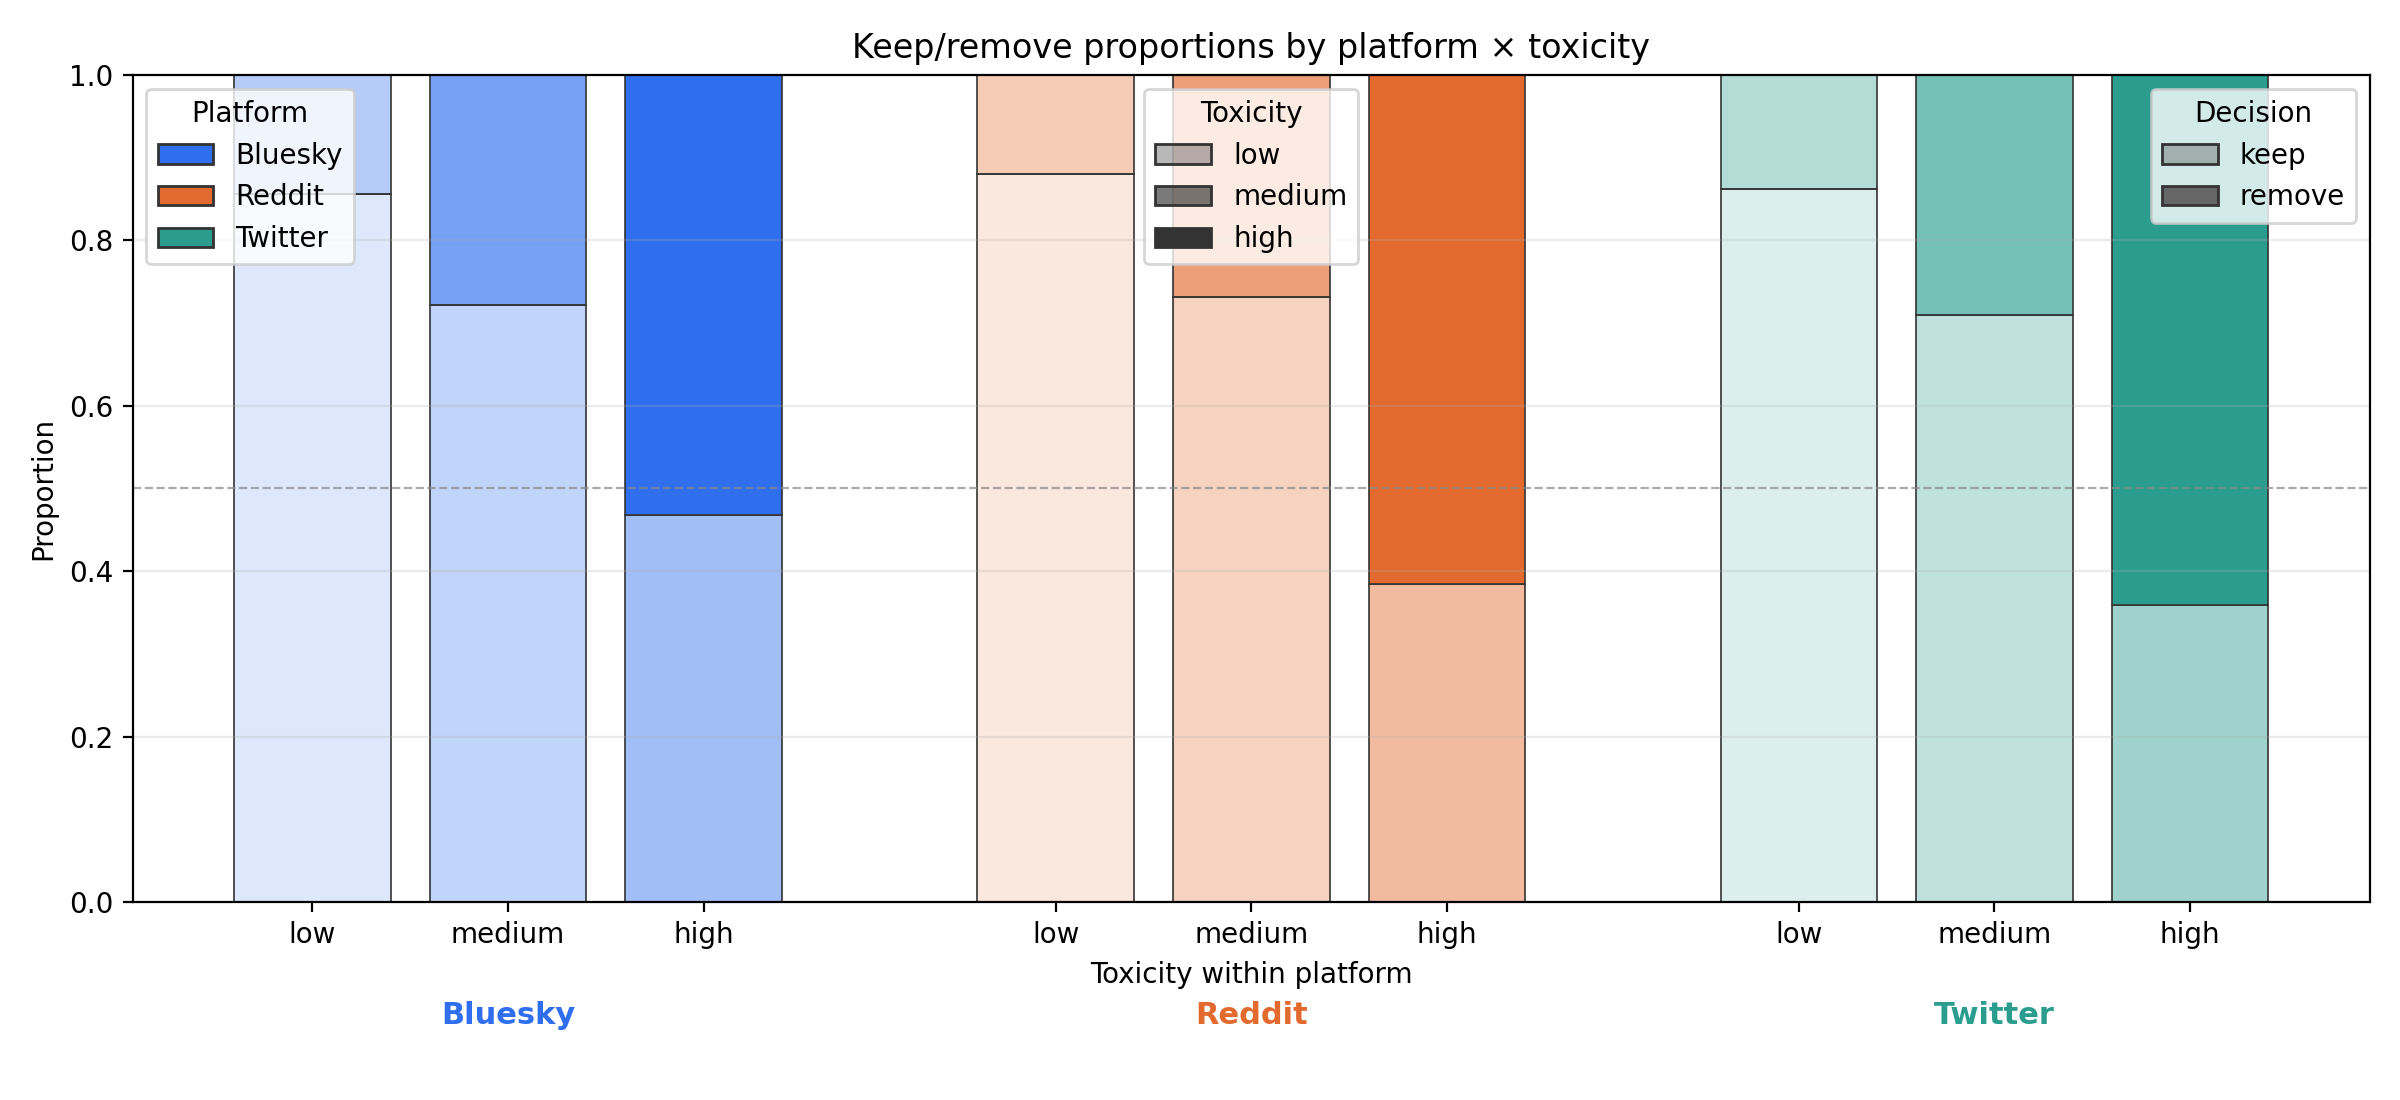
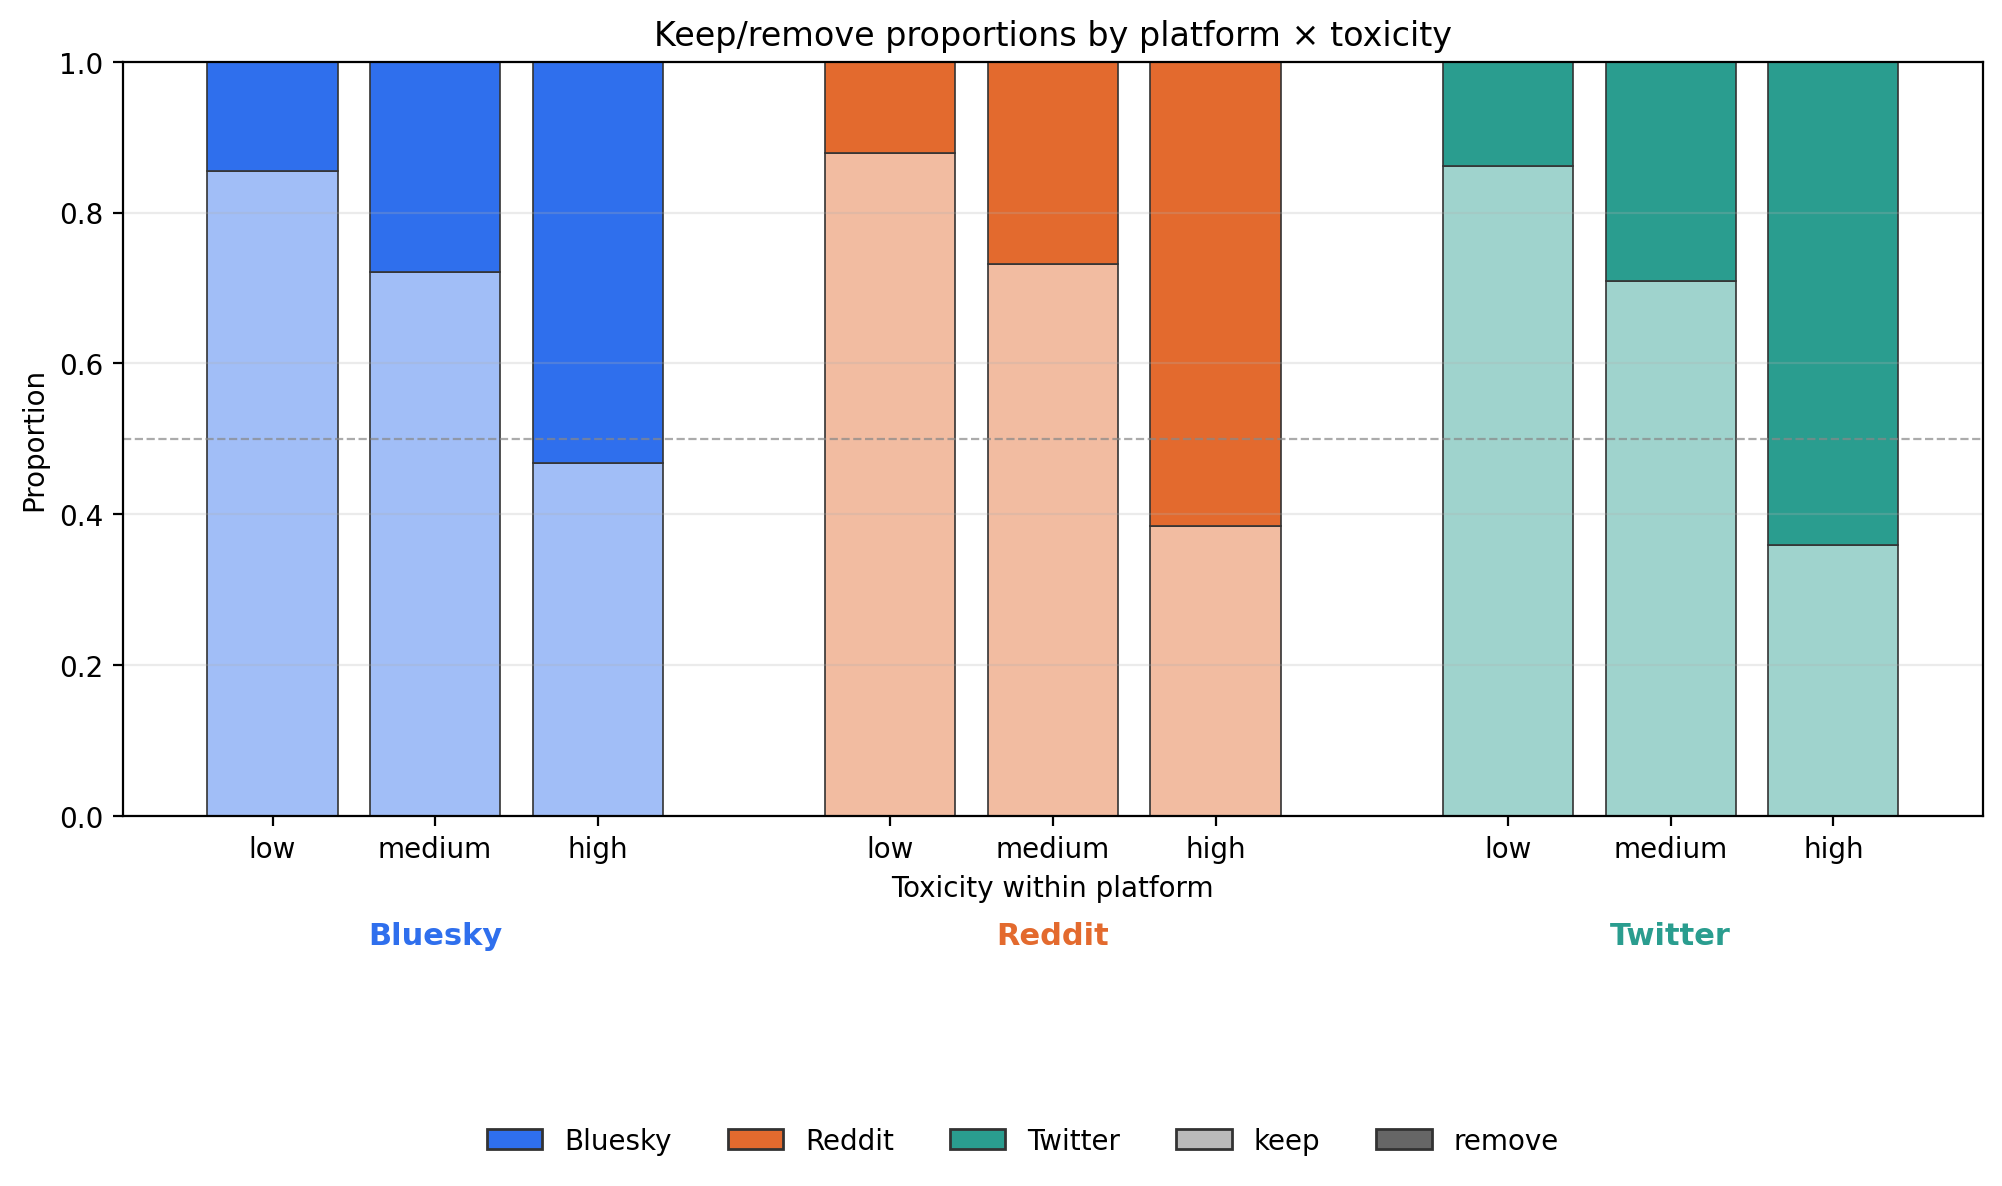
Move chart legends below axis; use solid platform colors
Drop toxicity opacity gradients; place a horizontal platform/decision legend under the x-axis so it no longer overlaps the bars.

diff --git a/experiments/compare_keep_remove_rates_across_integrations_2026_08_04/compare_keep_remove_rates.py b/experiments/compare_keep_remove_rates_across_integrations_2026_08_04/compare_keep_remove_rates.py
@@ -48,12 +48,7 @@ PLATFORM_COLORS: dict[str, str] = {
     "Reddit": "#E36A2E",
     "Twitter": "#2A9D8F",
 }
-TOXICITY_OPACITY: dict[str, float] = {
-    "low toxicity": 0.35,
-    "medium toxicity": 0.65,
-    "high toxicity": 1.0,
-}
-KEEP_OPACITY_SCALE = 0.45
+KEEP_LIGHTEN = 0.55
 PLATFORM_GROUP_GAP = 0.8
 FIGURE_DPI = 200
 
@@ -174,6 +169,13 @@ def parse_platform_toxicity_column(column: str) -> tuple[str, str]:
     raise ValueError(f"Unrecognized platform×toxicity column: {column!r}")
 
 
+def lighten_rgb(
+    rgb: tuple[float, float, float], amount: float
+) -> tuple[float, float, float]:
+    """Blend ``rgb`` toward white by ``amount`` in [0, 1]."""
+    return tuple(channel + (1.0 - channel) * amount for channel in rgb)
+
+
 def bar_x_positions(n_columns: int, group_size: int) -> list[float]:
     """X positions with a gap after each platform group."""
     positions: list[float] = []
@@ -188,7 +190,7 @@ def bar_x_positions(n_columns: int, group_size: int) -> list[float]:
 def plot_platform_toxicity_proportions(
     proportions: pd.DataFrame, output_path: Path
 ) -> None:
-    """Stacked keep/remove bars; platform hue, toxicity opacity; crosstab order."""
+    """Stacked keep/remove bars; solid platform colors; crosstab column order."""
     columns = list(proportions.columns)
     if columns != list(PLATFORM_TOXICITY_COLUMNS):
         raise ValueError("Proportion columns must match PLATFORM_TOXICITY_COLUMNS order")
@@ -197,16 +199,15 @@ def plot_platform_toxicity_proportions(
     keep_values = [float(proportions.loc["keep", col]) for col in columns]
     remove_values = [float(proportions.loc["remove", col]) for col in columns]
 
-    keep_colors: list[tuple[float, float, float, float]] = []
-    remove_colors: list[tuple[float, float, float, float]] = []
+    keep_colors: list[tuple[float, float, float]] = []
+    remove_colors: list[tuple[float, float, float]] = []
     for column in columns:
-        platform, toxicity = parse_platform_toxicity_column(column)
+        platform, _toxicity = parse_platform_toxicity_column(column)
         rgb = to_rgb(PLATFORM_COLORS[platform])
-        opacity = TOXICITY_OPACITY[toxicity]
-        keep_colors.append((*rgb, opacity * KEEP_OPACITY_SCALE))
-        remove_colors.append((*rgb, opacity))
+        keep_colors.append(lighten_rgb(rgb, KEEP_LIGHTEN))
+        remove_colors.append(rgb)
 
-    fig, ax = plt.subplots(figsize=(12, 5.5))
+    fig, ax = plt.subplots(figsize=(12, 6.5))
     ax.bar(
         x_positions,
         keep_values,
@@ -214,7 +215,6 @@ def plot_platform_toxicity_proportions(
         color=keep_colors,
         edgecolor="#333333",
         linewidth=0.6,
-        label="keep",
     )
     ax.bar(
         x_positions,
@@ -224,7 +224,6 @@ def plot_platform_toxicity_proportions(
         color=remove_colors,
         edgecolor="#333333",
         linewidth=0.6,
-        label="remove",
     )
 
     toxicity_tick_labels = [
@@ -247,7 +246,7 @@ def plot_platform_toxicity_proportions(
         ]
         ax.text(
             (group[0] + group[-1]) / 2.0,
-            -0.12,
+            -0.14,
             platform,
             transform=ax.get_xaxis_transform(),
             ha="center",
@@ -261,35 +260,24 @@ def plot_platform_toxicity_proportions(
         Patch(facecolor=PLATFORM_COLORS[platform], edgecolor="#333333", label=platform)
         for platform in PLATFORM_COLUMNS
     ]
-    toxicity_handles = [
-        Patch(
-            facecolor=(0.2, 0.2, 0.2, TOXICITY_OPACITY[toxicity]),
-            edgecolor="#333333",
-            label=toxicity.removesuffix(" toxicity"),
-        )
-        for toxicity in TOXICITY_ORDER
-    ]
     decision_handles = [
         Patch(
-            facecolor=(0.4, 0.4, 0.4, KEEP_OPACITY_SCALE),
+            facecolor=lighten_rgb((0.4, 0.4, 0.4), KEEP_LIGHTEN),
             edgecolor="#333333",
             label="keep",
         ),
-        Patch(facecolor=(0.4, 0.4, 0.4, 1.0), edgecolor="#333333", label="remove"),
+        Patch(facecolor=(0.4, 0.4, 0.4), edgecolor="#333333", label="remove"),
     ]
-    legend_platforms = ax.legend(
-        handles=platform_handles, title="Platform", loc="upper left"
+    fig.subplots_adjust(bottom=0.30)
+    fig.legend(
+        handles=platform_handles + decision_handles,
+        loc="upper center",
+        bbox_to_anchor=(0.5, 0.08),
+        ncol=len(platform_handles) + len(decision_handles),
+        frameon=False,
+        fontsize=10,
     )
-    ax.add_artist(legend_platforms)
-    legend_toxicity = ax.legend(
-        handles=toxicity_handles, title="Toxicity", loc="upper center"
-    )
-    ax.add_artist(legend_toxicity)
-    ax.legend(handles=decision_handles, title="Decision", loc="upper right")
-
-    fig.tight_layout()
-    fig.subplots_adjust(bottom=0.18)
-    fig.savefig(output_path, dpi=FIGURE_DPI)
+    fig.savefig(output_path, dpi=FIGURE_DPI, bbox_inches="tight")
     plt.close(fig)
 
 
